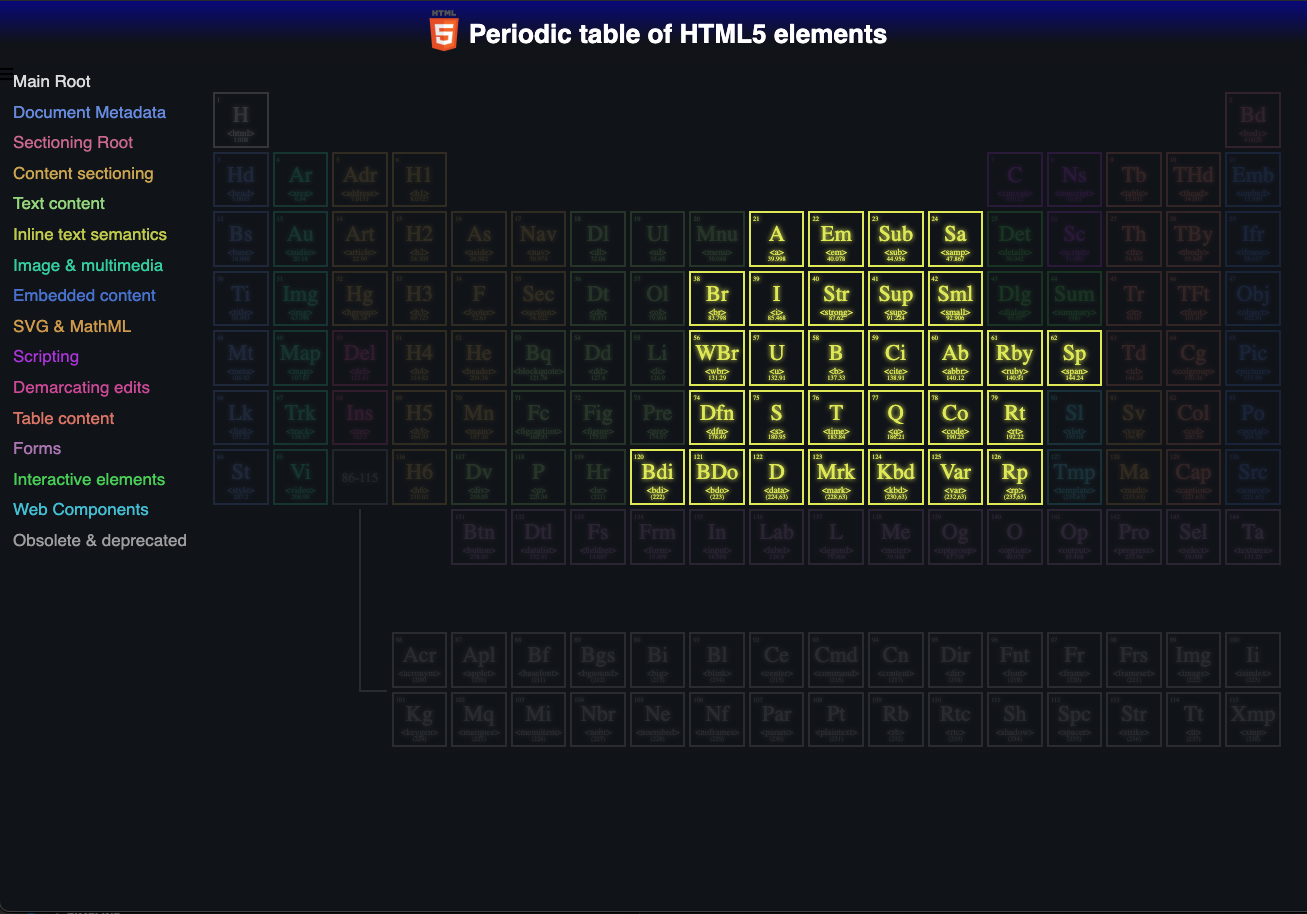
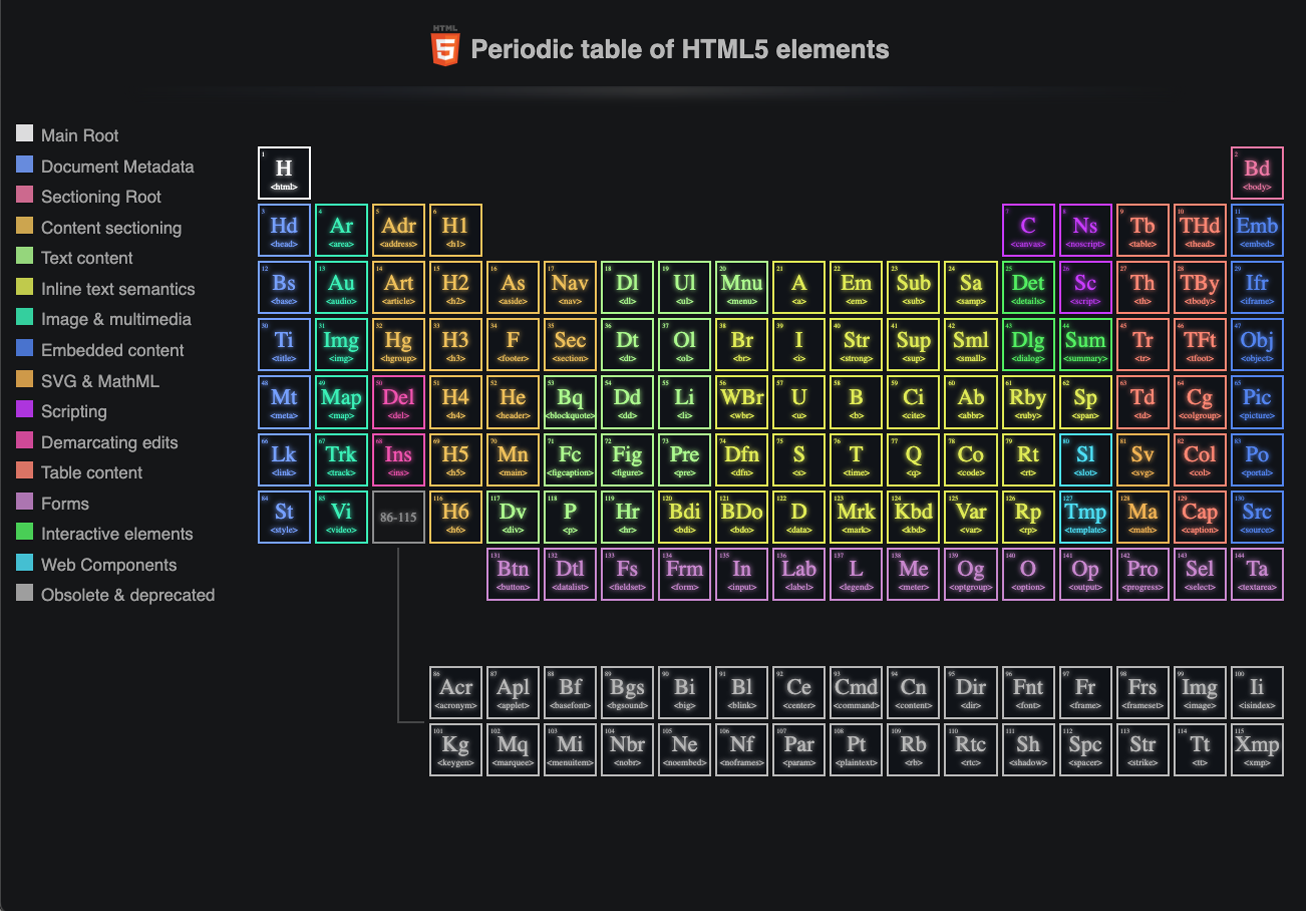
persist the selected theme

diff --git a/public/projects/UXE-assessment/index.html b/public/projects/UXE-assessment/index.html
@@ -1,1 +1,1 @@
-<!doctype html><html class="index" lang="en" dir="ltr"><head><link rel="dns-prefetch" href="//google-analytics.com"><link rel="preconnect" href="//fonts.gstatic.com/" crossorigin><link rel="stylesheet" href="https://cdnjs.cloudflare.com/ajax/libs/font-awesome/5.14.0/css/all.min.css" crossorigin><meta charset="utf-8"><meta http-equiv="x-ua-compatible" content="ie=edge"><meta name="description" content="description - index"><meta name="viewport" content="width=device-width,initial-scale=1,minimum-scale=1"><meta name="robots" content="index,follow"><meta name="theme-color" content="#ffffff"><meta name="msapplication-navbutton-color" content="#ffffff"><meta name="apple-mobile-web-app-status-bar-style" content="#ffffff"><meta content="telephone=no" name="format-detection"><title>title - index</title><link rel="manifest" href="/assets/manifest.json"><link rel="icon" type="image/x-icon" href="./favicon/favicon.ico"><script defer="defer" src="bundle.js"></script><link href="vendor/css/index.0d302e86a98e9387b413.css" rel="stylesheet"></head><body><div class="view-controls"><a class="button close" id="close-button" href="#close" alt="close"><i class="fas fa-times"></i></a></div><div class="left-bar"><div class="blue-70"><div class="blue-100"><img src="images/glofox-logo-icon.svg"></div></div></div><div class="content-area"><div class="top-bar"><div class="block title"><h2>Membership Title</h2><p>Probably the best membership name in the world ever.</p></div><div class="block description"><h2>Membership Description</h2><p>Probably the best membership description ever.</p></div><div class="block plans"><h2>Membership Plan(s)</h2><p>0</p></div></div><form method="post" action="/"><div class="content-block member-profile"><div class="block details"><h1>Details</h1><div class="block-inner"><p class="form-input"><label for="member-name">Membership Name</label> <input class="text-input" name="member-name" id="member-name" placeholder="Probably the best membership name in the world ever"></p><p class="form-input"><label for="member-desciption">Membership Description</label> <textarea name="member-desciption" id="member-desciption" placeholder="Probably the best membership description ever" rows="4"></textarea></p></div></div><div class="block settings last"><h1>Settings</h1><div class="block-inner"><p class="checklist"><label class="switch" for="one-per-client"><input class="checkbox-item" type="checkbox" name="one-per-client" id="one-per-client" checked="checked"><span class="slider"></span></label> <label class="checkbox-label bold" for="one-per-client">Restrict to one purchase per client</label></p><p class="checklist"><label class="switch" for="make-private"><input class="checkbox-item" type="checkbox" name="make-private" id="make-private"><span class="slider"></span></label> <label class="checkbox-label" for="make-private">Make private (will not be shown in app or online)</label></p><p class="checklist"><label class="switch" for="trial-membership"><input class="checkbox-item" type="checkbox" name="trial-membership" id="trial-membership"><span class="slider"></span></label> <label class="checkbox-label" for="trial-membership">This is a trial membership</label></p><p class="checklist"><label class="switch" for="allow-roaming"><input class="checkbox-item" type="checkbox" name="allow-roaming" id="allow-roaming" checked="checked"><span class="slider"></span></label> <label class="checkbox-label bold" for="allow-roaming">Allow this membership to roam to linked locations</label></p></div></div></div><div class="content-block member-plan"><div class="block plan"><h1>Plan Type</h1><div class="block-inner"><p class="form-input"><label for="plan-name">Plan Name</label> <input class="text-input" name="plan-name" id="plan-name" placeholder="Add a name to your plan"></p><p class="form-input"><label>Select type</label></p><div class="plan-types"><input class="plan-type-radio" type="radio" name="rplan-type" id="membership" value="membership"> <label class="plan-type-selection membership" for="membership"><h3>Membership</h3><p>Allows the client to come to the studio as much as they want within a time frame</p></label> <input class="plan-type-radio" type="radio" name="rplan-type" id="credit-pack" value="credit-pack"> <label class="plan-type-selection credit-pack" for="credit-pack"><h3>Credit pack</h3><p>The client gets a certain number of visits in the pack</p></label></div></div></div><div class="block no-background action-controls last"><div class="form-actions secondary"><a class="button" href="#share"><i class="fa fa-share-alt" aria-hidden="true"></i> Share</a><a class="button last" href="#duplicate"> <i class="fa fa-copy" aria-hidden="true"></i> Duplicate</a></div><div class="summary"><h1>Summary</h1><p>Review how a client will see the membership plan offering</p><div class="loader"></div><div class="loader short"></div><div class="loader"></div><div class="loader short"></div></div><div class="form-actions primary"><a class="button negative" href="#delete"><i class="fa fa-trash-alt" aria-hidden="true"></i> Delete</a><a class="button positive last" href="#save"> <i class="fa fa-save" aria-hidden="true"></i> Save</a></div></div></div></form><div class="center add-plan"><a class="button" id="add-another-plan" href="#add-another-plan">Add another plan</a></div></div></body></html>
+<!doctype html><html class="index" lang="en" dir="ltr"><head><link rel="dns-prefetch" href="//google-analytics.com"><link rel="preconnect" href="//fonts.gstatic.com/" crossorigin><link rel="stylesheet" href="https://cdnjs.cloudflare.com/ajax/libs/font-awesome/5.14.0/css/all.min.css" crossorigin><meta charset="utf-8"><meta http-equiv="x-ua-compatible" content="ie=edge"><meta name="description" content="I was tasked to build a pixel-perfect web page as an assessment for a job interview. Here I taught myself some new libraries while doing the assessment. The task was only to &quot;build as you see&quot; for a web-only desktop application. I got carried away with presenting my passion for building useful interfaces and including responsive, fluidly adaptive layouts across all mobile devices as well."><meta name="viewport" content="width=device-width,initial-scale=1,minimum-scale=1"><meta name="robots" content="index,follow"><meta name="theme-color" content="#ffffff"><meta name="msapplication-navbutton-color" content="#ffffff"><meta name="apple-mobile-web-app-status-bar-style" content="#ffffff"><meta content="telephone=no" name="format-detection"><title>UXE Assessment</title><link rel="manifest" href="/assets/manifest.json"><link rel="icon" type="image/x-icon" href="./favicon/favicon.ico"><script defer="defer" src="bundle.js"></script><link href="vendor/css/index.0d302e86a98e9387b413.css" rel="stylesheet"></head><body><div class="view-controls"><a class="button close" id="close-button" href="#close" alt="close"><i class="fas fa-times"></i></a></div><div class="left-bar"><div class="blue-70"><div class="blue-100"><img src="images/github.svg"></div></div></div><div class="content-area"><div class="top-bar"><div class="block title"><h2>Membership Title</h2><p>Probably the best membership name in the world ever.</p></div><div class="block description"><h2>Membership Description</h2><p>Probably the best membership description ever.</p></div><div class="block plans"><h2>Membership Plan(s)</h2><p>0</p></div></div><form method="post" action="/"><div class="content-block member-profile"><div class="block details"><h1>Details</h1><div class="block-inner"><p class="form-input"><label for="member-name">Membership Name</label> <input class="text-input" name="member-name" id="member-name" placeholder="Probably the best membership name in the world ever"></p><p class="form-input"><label for="member-desciption">Membership Description</label> <textarea name="member-desciption" id="member-desciption" placeholder="Probably the best membership description ever" rows="4"></textarea></p></div></div><div class="block settings last"><h1>Settings</h1><div class="block-inner"><p class="checklist"><label class="switch" for="one-per-client"><input class="checkbox-item" type="checkbox" name="one-per-client" id="one-per-client" checked="checked"><span class="slider"></span></label> <label class="checkbox-label bold" for="one-per-client">Restrict to one purchase per client</label></p><p class="checklist"><label class="switch" for="make-private"><input class="checkbox-item" type="checkbox" name="make-private" id="make-private"><span class="slider"></span></label> <label class="checkbox-label" for="make-private">Make private (will not be shown in app or online)</label></p><p class="checklist"><label class="switch" for="trial-membership"><input class="checkbox-item" type="checkbox" name="trial-membership" id="trial-membership"><span class="slider"></span></label> <label class="checkbox-label" for="trial-membership">This is a trial membership</label></p><p class="checklist"><label class="switch" for="allow-roaming"><input class="checkbox-item" type="checkbox" name="allow-roaming" id="allow-roaming" checked="checked"><span class="slider"></span></label> <label class="checkbox-label bold" for="allow-roaming">Allow this membership to roam to linked locations</label></p></div></div></div><div class="content-block member-plan"><div class="block plan"><h1>Plan Type</h1><div class="block-inner"><p class="form-input"><label for="plan-name">Plan Name</label> <input class="text-input" name="plan-name" id="plan-name" placeholder="Add a name to your plan"></p><p class="form-input"><label>Select type</label></p><div class="plan-types"><input class="plan-type-radio" type="radio" name="rplan-type" id="membership" value="membership"> <label class="plan-type-selection membership" for="membership"><h3>Membership</h3><p>Allows the client to come to the studio as much as they want within a time frame</p></label> <input class="plan-type-radio" type="radio" name="rplan-type" id="credit-pack" value="credit-pack"> <label class="plan-type-selection credit-pack" for="credit-pack"><h3>Credit pack</h3><p>The client gets a certain number of visits in the pack</p></label></div></div></div><div class="block no-background action-controls last"><div class="form-actions secondary"><a class="button" href="#share"><i class="fa fa-share-alt" aria-hidden="true"></i> Share</a><a class="button last" href="#duplicate"> <i class="fa fa-copy" aria-hidden="true"></i> Duplicate</a></div><div class="summary"><h1>Summary</h1><p>Review how a client will see the membership plan offering</p><div class="loader"></div><div class="loader short"></div><div class="loader"></div><div class="loader short"></div></div><div class="form-actions primary"><a class="button negative" href="#delete"><i class="fa fa-trash-alt" aria-hidden="true"></i> Delete</a><a class="button positive last" href="#save"> <i class="fa fa-save" aria-hidden="true"></i> Save</a></div></div></div></form><div class="center add-plan"><a class="button" id="add-another-plan" href="#add-another-plan">Add another plan</a></div></div></body></html>

diff --git a/public/projects/UXE-assessment/service-worker.js b/public/projects/UXE-assessment/service-worker.js
@@ -1,1 +1,1 @@
-if(!self.define){const e=e=>{"require"!==e&&(e+=".js");let i=Promise.resolve();return r[e]||(i=new Promise((async i=>{if("document"in self){const r=document.createElement("script");r.src=e,document.head.appendChild(r),r.onload=i}else importScripts(e),i()}))),i.then((()=>{if(!r[e])throw new Error(`Module ${e} didn’t register its module`);return r[e]}))},i=(i,r)=>{Promise.all(i.map(e)).then((e=>r(1===e.length?e[0]:e)))},r={require:Promise.resolve(i)};self.define=(i,o,a)=>{r[i]||(r[i]=Promise.resolve().then((()=>{let r={};const n={uri:location.origin+i.slice(1)};return Promise.all(o.map((i=>{switch(i){case"exports":return r;case"module":return n;default:return e(i)}}))).then((e=>{const i=a(...e);return r.default||(r.default=i),r}))})))}}define("./service-worker.js",["./workbox-2d566c77"],(function(e){"use strict";self.skipWaiting(),e.clientsClaim(),e.precacheAndRoute([{url:"../../images/circle.svg",revision:"34310e47e844069065029bb78ecfa0fb"},{url:"assets/manifest.json",revision:"ca5aab340b28d8000ebab5aa6894cbeb"},{url:"bundle.js",revision:"bbdb08532ba6fe16ecea95d8c03ee526"},{url:"bundle.js.LICENSE.txt",revision:"23200fb75778ef603949cb91dcbab00d"},{url:"favicon/.DS_Store",revision:"194577a7e20bdcc7afbb718f502c134c"},{url:"favicon/android-chrome-192x192.png",revision:"d779b1ea67a34b81a69da73eb0ea045a"},{url:"favicon/android-chrome-512x512.png",revision:"4b379191b6e39e92b5506b85d4912501"},{url:"favicon/apple-touch-icon.png",revision:"0fa670186660466f45b19bb526831302"},{url:"favicon/favicon-16x16.png",revision:"bf081c48f784b0b565a29e59fe7a3966"},{url:"favicon/favicon-32x32.png",revision:"ef123a0fc346a559a5726f2b06923c23"},{url:"favicon/favicon.ico",revision:"48d57d7277c1dfedffe5b702c31de6ae"},{url:"favicon/site.webmanifest",revision:"685a574cb7b4b1eb749fd5327422a9fb"},{url:"fonts/ProximaNovaRegular.eot",revision:"12c5a0bf8a594f5dca2da11eb8907d56"},{url:"fonts/ProximaNovaRegular.ttf",revision:"d325c74976d581480f391d444b7216b9"},{url:"fonts/ProximaNovaRegular.woff",revision:"26aa9c4564719dd6d04769675cb92088"},{url:"fonts/proximanovalight.eot",revision:"9f70efb1c7de0b6f38bbb440f653aa54"},{url:"fonts/proximanovalight.ttf",revision:"5530d3f7d55331f58608e659761443ce"},{url:"fonts/proximanovalight.woff",revision:"de328f622d11b46ed92a47ac9168503f"},{url:"images/.DS_Store",revision:"776a97f3ae10ec4746e2a56ab74ae12d"},{url:"images/circle.svg",revision:"34310e47e844069065029bb78ecfa0fb"},{url:"images/glofox-logo-icon.svg",revision:"aed445f9564792606f113b954815ec0a"},{url:"images/glofox-logo.svg",revision:"975bee649631d01daa8bad7651724a3a"},{url:"images/triangle.svg",revision:"2f0e073d9db2ca12397d640d5d39de3a"},{url:"index.html",revision:"0f24840e393528e019270f63ba5d6217"},{url:"vendor/css/index.0d302e86a98e9387b413.css",revision:null}],{directoryIndex:"index.html"}),e.initialize({})}));
+if(!self.define){const e=e=>{"require"!==e&&(e+=".js");let i=Promise.resolve();return r[e]||(i=new Promise((async i=>{if("document"in self){const r=document.createElement("script");r.src=e,document.head.appendChild(r),r.onload=i}else importScripts(e),i()}))),i.then((()=>{if(!r[e])throw new Error(`Module ${e} didn’t register its module`);return r[e]}))},i=(i,r)=>{Promise.all(i.map(e)).then((e=>r(1===e.length?e[0]:e)))},r={require:Promise.resolve(i)};self.define=(i,o,a)=>{r[i]||(r[i]=Promise.resolve().then((()=>{let r={};const n={uri:location.origin+i.slice(1)};return Promise.all(o.map((i=>{switch(i){case"exports":return r;case"module":return n;default:return e(i)}}))).then((e=>{const i=a(...e);return r.default||(r.default=i),r}))})))}}define("./service-worker.js",["./workbox-2d566c77"],(function(e){"use strict";self.skipWaiting(),e.clientsClaim(),e.precacheAndRoute([{url:"../../images/circle.svg",revision:"34310e47e844069065029bb78ecfa0fb"},{url:"assets/manifest.json",revision:"ca5aab340b28d8000ebab5aa6894cbeb"},{url:"bundle.js",revision:"bbdb08532ba6fe16ecea95d8c03ee526"},{url:"bundle.js.LICENSE.txt",revision:"23200fb75778ef603949cb91dcbab00d"},{url:"favicon/.DS_Store",revision:"194577a7e20bdcc7afbb718f502c134c"},{url:"favicon/android-chrome-192x192.png",revision:"8d0e12718d8a7ee533b210a78ec7d8b3"},{url:"favicon/android-chrome-512x512.png",revision:"17e95705f3d35b1642770f27184242fa"},{url:"favicon/apple-touch-icon.png",revision:"5dae9aa370ad3f66aff721ccceb7835b"},{url:"favicon/favicon-16x16.png",revision:"8e3087fdd9a38229a09d1d3226879189"},{url:"favicon/favicon-32x32.png",revision:"95a45ea7babd3d7861d07329c5461650"},{url:"favicon/favicon.ico",revision:"10de4d90be66cef95c5c86c41428023d"},{url:"favicon/site.webmanifest",revision:"685a574cb7b4b1eb749fd5327422a9fb"},{url:"fonts/ProximaNovaRegular.eot",revision:"12c5a0bf8a594f5dca2da11eb8907d56"},{url:"fonts/ProximaNovaRegular.ttf",revision:"d325c74976d581480f391d444b7216b9"},{url:"fonts/ProximaNovaRegular.woff",revision:"26aa9c4564719dd6d04769675cb92088"},{url:"fonts/proximanovalight.eot",revision:"9f70efb1c7de0b6f38bbb440f653aa54"},{url:"fonts/proximanovalight.ttf",revision:"5530d3f7d55331f58608e659761443ce"},{url:"fonts/proximanovalight.woff",revision:"de328f622d11b46ed92a47ac9168503f"},{url:"images/.DS_Store",revision:"776a97f3ae10ec4746e2a56ab74ae12d"},{url:"images/circle.svg",revision:"34310e47e844069065029bb78ecfa0fb"},{url:"images/github.svg",revision:"265b439401b2032234ef971a92d0ad6f"},{url:"images/glofox-logo-icon.svg",revision:"aed445f9564792606f113b954815ec0a"},{url:"images/glofox-logo.svg",revision:"975bee649631d01daa8bad7651724a3a"},{url:"images/triangle.svg",revision:"2f0e073d9db2ca12397d640d5d39de3a"},{url:"index.html",revision:"1c5ffa6946c2c070f3cdd6e4e870cfd4"},{url:"vendor/css/index.0d302e86a98e9387b413.css",revision:null}],{directoryIndex:"index.html"}),e.initialize({})}));

diff --git a/src/components/Molecules/ProfileInfo/ProfileInfo.tsx b/src/components/Molecules/ProfileInfo/ProfileInfo.tsx
@@ -1,6 +1,7 @@
-import React from 'react';
+import React, { useEffect } from 'react';
 import { Typography, IconButtonStrip, Card, Switch, Icon } from '../../index';
 import type { ButtonData } from '../IconButtonStrip/IconButtonStrip';
+import { useLocalStorage } from '../../shared/local-storage';
 
 import './ProfileInfo.less';
 
@@ -23,15 +24,24 @@ const ProfileInfo = ({
   className = '',
   buttonData,
 }: ProfileInfoProps) => {
+  const [theme, setTheme] = useLocalStorage('theme', 'theme-1');
+
   const linkParts = linkUrl.split(' ');
+
+  useEffect(() => {
+    // storing input name
+    localStorage.setItem('theme', JSON.stringify(theme));
+    document.body.className = theme;
+  }, [theme]);
 
   const toggleDark = (checked: boolean) => {
     if (checked) {
       document.body.className = 'theme-1';
+      setTheme('theme-1');
     } else {
       document.body.className = 'theme-2';
+      setTheme('theme-2');
     }
-    console.log(`switch to ${checked}`);
   };
 
   return (
@@ -58,7 +68,7 @@ const ProfileInfo = ({
       <div className="actionable-items">
         <IconButtonStrip data={buttonData} />
         <Switch
-          defaultChecked
+          defaultChecked={theme === 'theme-1'}
           onChange={toggleDark}
           labelRight={<Icon fontIcon="awethentique-moon" />}
           labelLeft={<Icon fontIcon="awethentique-light-up" />}

diff --git a/src/data/AppData.ts b/src/data/AppData.ts
@@ -51,6 +51,6 @@ export const contactButtonsData = [
       title: 'UXE assessment',
       description:
         'I was tasked to build a pixel-perfect web page as an assessment for a job interview. Here I taught myself some new libraries while doing the assessment. The task was only to "build as you see" for a web-only desktop application. I got carried away with presenting my passion for building useful interfaces and including responsive, fluidly adaptive layouts across all mobile devices as well. ',
-      // url: '/projects/UXE-assessment/index.html',
+      url: '/projects/UXE-assessment/index.html',
     },
   ];

diff --git a/src/components/shared/local-storage.ts b/src/components/shared/local-storage.ts
@@ -1,0 +1,21 @@
+import { useState, useEffect } from "react";
+
+const getStorageValue= (key:string, defaultValue:string)=> {
+  // getting stored value
+  const saved = localStorage.getItem(key);
+  const initial = JSON.parse(saved as any);
+  return initial || defaultValue;
+}
+
+export const useLocalStorage = (key:string, defaultValue:string) => {
+  const [value, setValue] = useState(() => {
+    return getStorageValue(key, defaultValue);
+  });
+
+  useEffect(() => {
+    // storing input name
+    localStorage.setItem(key, JSON.stringify(value));
+  }, [key, value]);
+
+  return [value, setValue];
+};

diff --git a/public/index.html b/public/index.html
@@ -4,6 +4,8 @@
     <meta charset="utf-8" />
     <link rel="icon" href="%PUBLIC_URL%/favicon.ico" />
     <meta name="viewport" content="width=device-width, initial-scale=1, minimum-scale=1">
+    <meta http-equiv="Permissions-Policy" content="interest-cohort=()">
+
 
     <meta name="theme-color" content="#000000" />
     <meta
